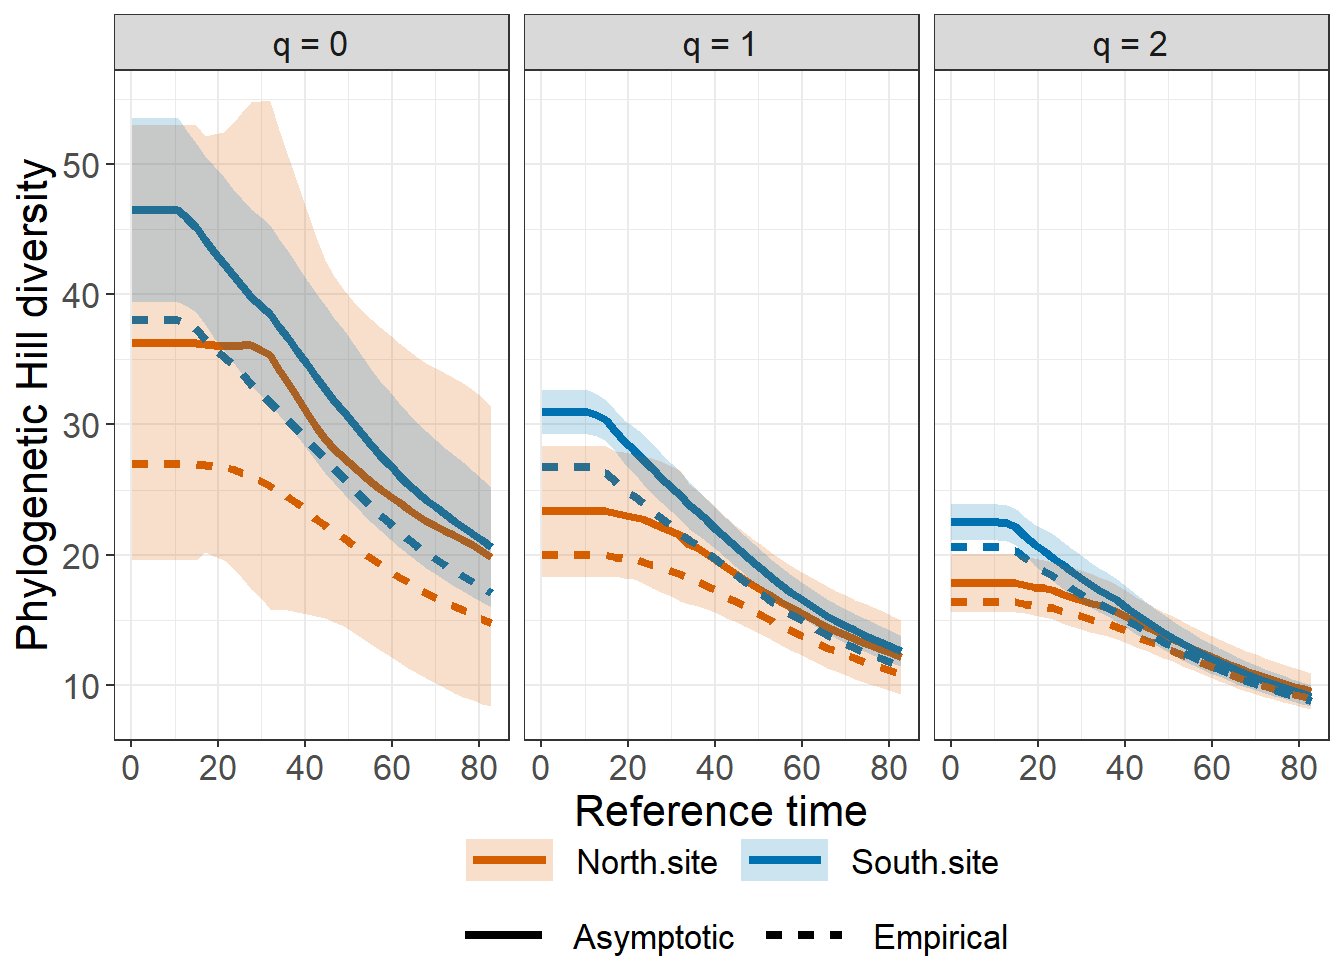
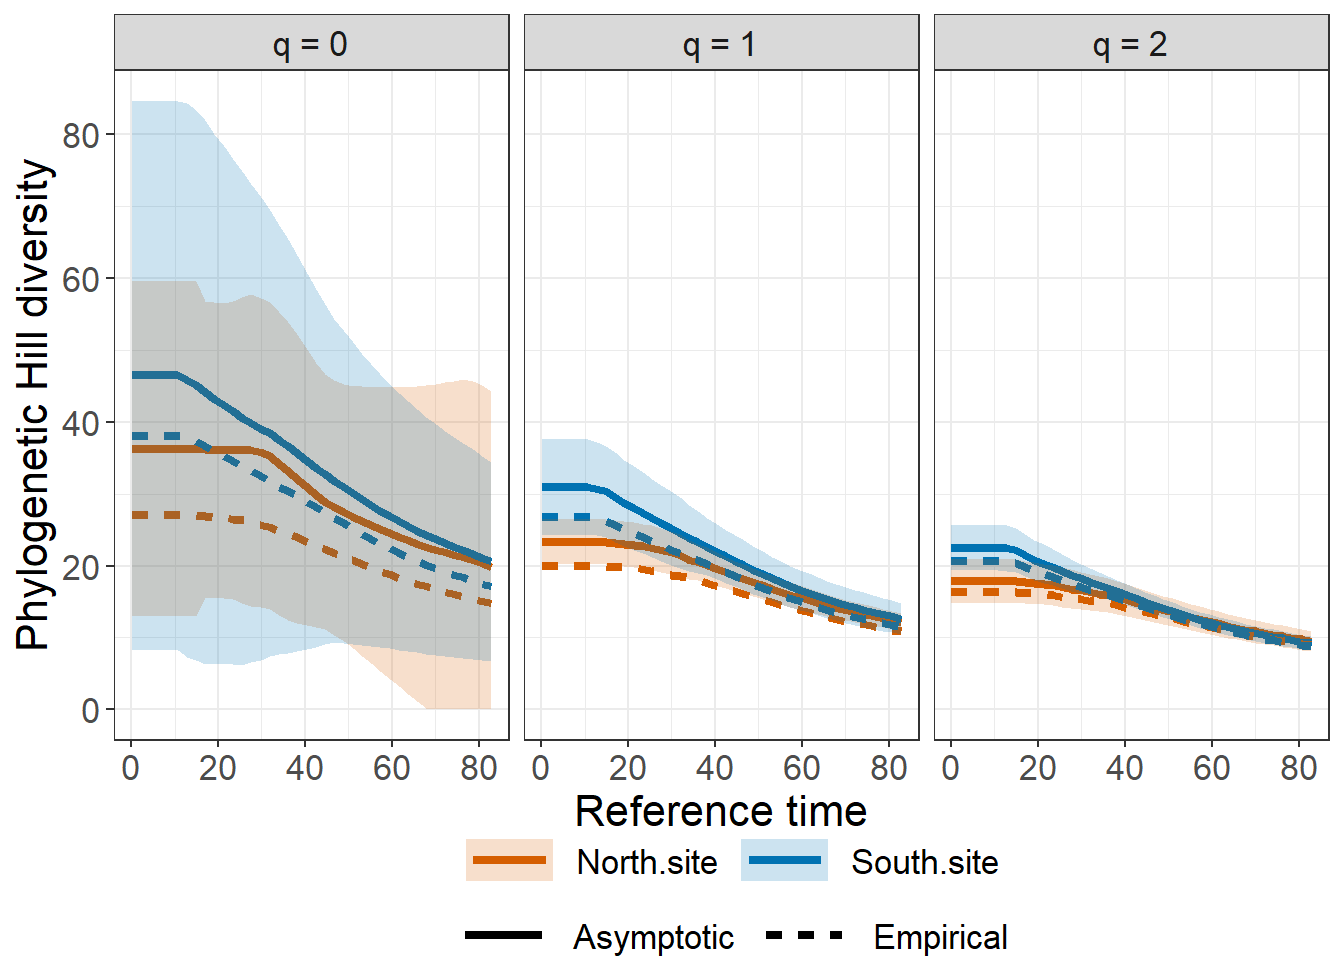
Update README.

diff --git a/README.md b/README.md
@@ -210,9 +210,8 @@ Enter 0 to skip the bootstrap procedures. Default is 50.
 conf
 </td>
 <td style="text-align: left;">
-a positive integer specifying the number of bootstrap replications when
-assessing sampling uncertainty and constructing confidence intervals.
-Enter 0 to skip the bootstrap procedures. Default is 50.
+a positive number \< 1 specifying the level of confidence interval.
+Default is 0.95.
 </td>
 </tr>
 <tr>
@@ -368,16 +367,16 @@ $size_based (LCL and UCL are obtained for fixed size.)
 # A tibble: 45 x 10
    Assemblage     m Method        Order.q    qD qD.LCL qD.UCL    SC SC.LCL SC.UCL
    <chr>      <dbl> <chr>           <dbl> <dbl>  <dbl>  <dbl> <dbl>  <dbl>  <dbl>
- 1 EM             1 Rarefaction         0  1      1.00   1    0.136  0.127  0.145
- 2 EM           196 Rarefaction         0 15.2   13.7   16.8  0.987  0.980  0.995
- 3 EM           373 Observed            0 17     14.5   19.5  0.992  0.984  1.00 
- 4 EM           550 Extrapolation       0 18.2   14.9   21.6  0.994  0.988  1    
- 5 EM           746 Extrapolation       0 19.2   15.1   23.3  0.996  0.991  1    
- 6 EM             1 Rarefaction         1  1      1      1    0.136  0.127  0.145
- 7 EM           196 Rarefaction         1  9.07   8.55   9.58 0.987  0.980  0.995
- 8 EM           373 Observed            1  9.27   8.71   9.83 0.992  0.984  1.00 
- 9 EM           550 Extrapolation       1  9.37   8.79   9.95 0.994  0.988  1    
-10 EM           746 Extrapolation       1  9.43   8.84  10.0  0.996  0.991  1    
+ 1 EM             1 Rarefaction         0  1      1.00   1    0.136  0.128  0.145
+ 2 EM           196 Rarefaction         0 15.2   13.7   16.7  0.987  0.980  0.994
+ 3 EM           373 Observed            0 17     14.7   19.3  0.992  0.988  0.996
+ 4 EM           550 Extrapolation       0 18.2   15.3   21.2  0.994  0.990  0.998
+ 5 EM           746 Extrapolation       0 19.2   15.6   22.8  0.996  0.993  0.999
+ 6 EM             1 Rarefaction         1  1      1      1    0.136  0.128  0.145
+ 7 EM           196 Rarefaction         1  9.07   8.62   9.51 0.987  0.980  0.994
+ 8 EM           373 Observed            1  9.27   8.80   9.75 0.992  0.988  0.996
+ 9 EM           550 Extrapolation       1  9.37   8.88   9.85 0.994  0.990  0.998
+10 EM           746 Extrapolation       1  9.43   8.93   9.93 0.996  0.993  0.999
 # ... with 35 more rows
 # i Use `print(n = ...)` to see more rows
 
@@ -388,32 +387,32 @@ $coverage_based (LCL and UCL are obtained for fixed coverage; interval length is
 # A tibble: 45 x 8
    Assemblage    SC     m Method        Order.q    qD qD.LCL qD.UCL
    <chr>      <dbl> <dbl> <chr>           <dbl> <dbl>  <dbl>  <dbl>
- 1 EM         0.136    1  Rarefaction         0  1     0.987   1.01
- 2 EM         0.987  196. Rarefaction         0 15.2  12.7    17.7 
- 3 EM         0.992  373  Observed            0 17    13.5    20.5 
- 4 EM         0.994  550. Extrapolation       0 18.2  14.0    22.5 
- 5 EM         0.996  746. Extrapolation       0 19.2  14.3    24.1 
- 6 EM         0.136    1  Rarefaction         1  1     0.987   1.01
- 7 EM         0.987  196. Rarefaction         1  9.07  8.39    9.74
- 8 EM         0.992  373  Observed            1  9.27  8.57    9.97
- 9 EM         0.994  550. Extrapolation       1  9.37  8.66   10.1 
-10 EM         0.996  746. Extrapolation       1  9.43  8.73   10.1 
+ 1 EM         0.136    1  Rarefaction         0  1     0.967   1.03
+ 2 EM         0.987  196. Rarefaction         0 15.2  12.1    18.3 
+ 3 EM         0.992  373  Observed            0 17    12.6    21.4 
+ 4 EM         0.994  550. Extrapolation       0 18.2  13.3    23.1 
+ 5 EM         0.996  746. Extrapolation       0 19.2  13.8    24.5 
+ 6 EM         0.136    1  Rarefaction         1  1     0.968   1.03
+ 7 EM         0.987  196. Rarefaction         1  9.07  8.48    9.66
+ 8 EM         0.992  373  Observed            1  9.27  8.70    9.84
+ 9 EM         0.994  550. Extrapolation       1  9.37  8.80    9.93
+10 EM         0.996  746. Extrapolation       1  9.43  8.87    9.99
 # ... with 35 more rows
 # i Use `print(n = ...)` to see more rows
 
 NOTE: The above output only shows five estimates for each assemblage; call iNEXT.object$iNextEst$coverage_based to view complete output.
 
 AsyEst: asymptotic diversity estimates along with related statistics.
-  Assemblage         Diversity  Observed Estimator      s.e.       LCL      UCL
-1         EM  Species richness 17.000000 21.487936 4.7252632 17.000000 30.74928
-2         EM Shannon diversity  9.272102  9.541765 0.5106684  8.540873 10.54266
-3         EM Simpson diversity  7.218106  7.340810 0.4571866  6.444741  8.23688
-4         MO  Species richness 39.000000 40.998658 3.2474309 39.000000 47.36351
-5         MO Shannon diversity 19.712107 19.987465 0.7107617 18.594398 21.38053
-6         MO Simpson diversity 13.979950 14.102888 0.6083023 12.910638 15.29514
-7         TR  Species richness 42.000000 45.996223 3.7077529 42.000000 53.26329
-8         TR Shannon diversity 23.941938 24.481173 0.7166216 23.076621 25.88573
-9         TR Simpson diversity 18.605455 18.920295 0.7269383 17.495522 20.34507
+  Assemblage         Diversity  Observed Estimator      s.e.       LCL       UCL
+1         EM  Species richness 17.000000 21.487936 7.8075998 17.000000 36.790550
+2         EM Shannon diversity  9.272102  9.541765 0.2735255  9.005665 10.077865
+3         EM Simpson diversity  7.218106  7.340810 0.3037283  6.745514  7.936107
+4         MO  Species richness 39.000000 40.998658 3.8025660 39.000000 48.451550
+5         MO Shannon diversity 19.712107 19.987465 0.4717668 19.062819 20.912111
+6         MO Simpson diversity 13.979950 14.102888 0.4343910 13.251498 14.954279
+7         TR  Species richness 42.000000 45.996223 3.9371403 42.000000 53.712876
+8         TR Shannon diversity 23.941938 24.481173 0.4528253 23.593652 25.368695
+9         TR Simpson diversity 18.605455 18.920295 0.4792300 17.981021 19.859568
 ```
 
 The second data frame of list $iNextEst (as shown below for
@@ -598,15 +597,15 @@ indicated in the method of the output.
 ``` r
 estimate3D(dunes$data, diversity = 'TD', q = c(0,1,2), datatype = "abundance", base = "coverage",level = 0.93)
   Assemblage   SC         m      Method Order.q        qD      s.e.    qD.LCL    qD.UCL
-1         EM 0.93  47.88966 Rarefaction       0 11.194508 0.5440690 10.128152 12.260863
-2         EM 0.93  47.88966 Rarefaction       1  8.004329 0.3287016  7.360086  8.648572
-3         EM 0.93  47.88966 Rarefaction       2  6.482469 0.2911946  5.911738  7.053200
-4         MO 0.93 107.56810 Rarefaction       0 24.830302 0.6556692 23.545214 26.115390
-5         MO 0.93 107.56810 Rarefaction       1 16.735683 0.4208898 15.910754 17.560611
-6         MO 0.93 107.56810 Rarefaction       2 12.571520 0.4062615 11.775263 13.367778
-7         TR 0.93 114.37603 Rarefaction       0 27.935556 0.6456804 26.670046 29.201067
-8         TR 0.93 114.37603 Rarefaction       1 20.360646 0.4479612 19.482658 21.238634
-9         TR 0.93 114.37603 Rarefaction       2 16.357398 0.4441066 15.486965 17.227831
+1         EM 0.93  47.88966 Rarefaction       0 11.194508 0.5723628 10.072697 12.316318
+2         EM 0.93  47.88966 Rarefaction       1  8.004329 0.3413100  7.335374  8.673284
+3         EM 0.93  47.88966 Rarefaction       2  6.482469 0.2846312  5.924602  7.040336
+4         MO 0.93 107.56810 Rarefaction       0 24.830302 0.8163906 23.230206 26.430398
+5         MO 0.93 107.56810 Rarefaction       1 16.735683 0.5061083 15.743729 17.727637
+6         MO 0.93 107.56810 Rarefaction       2 12.571520 0.4233112 11.741846 13.401195
+7         TR 0.93 114.37603 Rarefaction       0 27.935556 0.8959244 26.179577 29.691536
+8         TR 0.93 114.37603 Rarefaction       1 20.360646 0.5638913 19.255439 21.465853
+9         TR 0.93 114.37603 Rarefaction       2 16.357398 0.4804488 15.415736 17.299060
 ```
 
 ### EMPIRICAL AND ASYMPTOTIC DIVERSITY FUNCTION: AO3D
@@ -630,73 +629,73 @@ along with its confidence interval, for a specified q level from 0 to 2.
 out1 <- AO3D(dunes$data, diversity = 'TD', datatype = "abundance", method = c("Asymptotic", "Observed"),nboot = 5,conf = 0.95)
 
 out1
-   Order.q        qD      s.e.    qD.LCL    qD.UCL Assemblage     Method
-1      0.0 21.487936 2.9382599 15.729052 27.246819         EM Asymptotic
-2      0.2 16.936433 1.5264765 13.944594 19.928272         EM Asymptotic
-3      0.4 13.885407 0.7940835 12.329032 15.441782         EM Asymptotic
-4      0.6 11.862781 0.4699537 10.941689 12.783873         EM Asymptotic
-5      0.8 10.496859 0.3373749  9.835617 11.158102         EM Asymptotic
-6      1.0  9.541765 0.2756630  9.001476 10.082055         EM Asymptotic
-7      1.2  8.847719 0.2407288  8.375899  9.319539         EM Asymptotic
-8      1.4  8.325449 0.2196508  7.894941  8.755956         EM Asymptotic
-9      1.6  7.920890 0.2074746  7.514247  8.327533         EM Asymptotic
-10     1.8  7.600095 0.2011742  7.205801  7.994389         EM Asymptotic
-11     2.0  7.340810 0.1986141  6.951534  7.730087         EM Asymptotic
-12     0.0 40.998658 5.7841620 29.661908 52.335407         MO Asymptotic
-13     0.2 34.209437 2.7554947 28.808767 39.610107         MO Asymptotic
-14     0.4 29.060182 1.3936238 26.328729 31.791634         MO Asymptotic
-15     0.6 25.175831 0.8792284 23.452575 26.899087         MO Asymptotic
-16     0.8 22.235885 0.6806774 20.901782 23.569988         MO Asymptotic
-17     1.0 19.987465 0.5682018 18.873810 21.101120         MO Asymptotic
-18     1.2 18.241913 0.4851258 17.291084 19.192742         MO Asymptotic
-19     1.4 16.863382 0.4224947 16.035307 17.691456         MO Asymptotic
-20     1.6 15.755819 0.3781258 15.014706 16.496932         MO Asymptotic
-21     1.8 14.851614 0.3489941 14.167598 15.535630         MO Asymptotic
-22     2.0 14.102888 0.3310951 13.453954 14.751823         MO Asymptotic
-23     0.0 45.996223 7.3057997 31.677119 60.315327         TR Asymptotic
-24     0.2 38.731480 3.3500796 32.165444 45.297515         TR Asymptotic
-25     0.4 33.399637 1.6025708 30.258656 36.540618         TR Asymptotic
-26     0.6 29.505773 1.0217409 27.503198 31.508348         TR Asymptotic
-27     0.8 26.635682 0.8660361 24.938282 28.333082         TR Asymptotic
-28     1.0 24.481173 0.8032734 22.906786 26.055560         TR Asymptotic
-29     1.2 22.827199 0.7589538 21.339677 24.314721         TR Asymptotic
-30     1.4 21.527891 0.7222266 20.112353 22.943429         TR Asymptotic
-31     1.6 20.484834 0.6912197 19.130068 21.839599         TR Asymptotic
-32     1.8 19.631065 0.6648912 18.327902 20.934227         TR Asymptotic
-33     2.0 18.920295 0.6423051 17.661400 20.179189         TR Asymptotic
-34     0.0 17.000000 0.8366600 15.360176 18.639824         EM  Empirical
-35     0.2 14.471457 0.3651264 13.755822 15.187092         EM  Empirical
-36     0.4 12.567736 0.1635547 12.247174 12.888297         EM  Empirical
-37     0.6 11.145510 0.2255504 10.703439 11.587580         EM  Empirical
-38     0.8 10.079552 0.2959636  9.499474 10.659630         EM  Empirical
-39     1.0  9.272102 0.3313700  8.622629  9.921575         EM  Empirical
-40     1.2  8.651511 0.3441312  7.977026  9.325995         EM  Empirical
-41     1.4  8.166818 0.3451254  7.490385  8.843251         EM  Empirical
-42     1.6  7.782094 0.3408971  7.113948  8.450240         EM  Empirical
-43     1.8  7.471913 0.3349573  6.815409  8.128418         EM  Empirical
-44     2.0  7.218106 0.3290211  6.573237  7.862976         EM  Empirical
-45     0.0 39.000000 1.0000000 37.040036 40.959964         MO  Empirical
-46     0.2 32.970780 0.7689797 31.463607 34.477952         MO  Empirical
-47     0.4 28.269000 0.6673441 26.961029 29.576970         MO  Empirical
-48     0.6 24.647500 0.5841257 23.502634 25.792365         MO  Empirical
-49     0.8 21.864493 0.5109297 20.863089 22.865897         MO  Empirical
-50     1.0 19.712107 0.4567004 18.816991 20.607223         MO  Empirical
-51     1.2 18.026804 0.4238459 17.196081 18.857526         MO  Empirical
-52     1.4 16.686924 0.4082451 15.886779 17.487070         MO  Empirical
-53     1.6 15.604656 0.4037298 14.813360 16.395951         MO  Empirical
-54     1.8 14.717297 0.4051339 13.923250 15.511345         MO  Empirical
-55     2.0 13.979950 0.4091088 13.178112 14.781789         MO  Empirical
-56     0.0 42.000000 1.6733201 38.720353 45.279647         TR  Empirical
-57     0.2 36.253363 1.0737844 34.148784 38.357942         TR  Empirical
-58     0.4 31.844736 0.7535099 30.367883 33.321588         TR  Empirical
-59     0.6 28.487492 0.6230373 27.266361 29.708622         TR  Empirical
-60     0.8 25.922807 0.5788729 24.788237 27.057378         TR  Empirical
-61     1.0 23.941938 0.5567460 22.850736 25.033140         TR  Empirical
-62     1.2 22.387845 0.5345878 21.340072 23.435617         TR  Empirical
-63     1.4 21.146894 0.5088802 20.149507 22.144281         TR  Empirical
-64     1.6 20.138290 0.4811358 19.195281 21.081299         TR  Empirical
-65     1.8 19.304760 0.4533574 18.416196 20.193324         TR  Empirical
-66     2.0 18.605455 0.4269397 17.768668 19.442241         TR  Empirical
+   Order.q        qD       s.e.    qD.LCL    qD.UCL Assemblage     Method
+1      0.0 21.487936  6.2179769  9.300925 33.674946         EM Asymptotic
+2      0.2 16.936433  2.9506297 11.153305 22.719561         EM Asymptotic
+3      0.4 13.885407  1.2425274 11.450098 16.320716         EM Asymptotic
+4      0.6 11.862781  0.5783225 10.729290 12.996272         EM Asymptotic
+5      0.8 10.496859  0.4821520  9.551859 11.441860         EM Asymptotic
+6      1.0  9.541765  0.5042795  8.553395 10.530135         EM Asymptotic
+7      1.2  8.847719  0.5139625  7.840371  9.855067         EM Asymptotic
+8      1.4  8.325449  0.5099681  7.325930  9.324968         EM Asymptotic
+9      1.6  7.920890  0.5002279  6.940461  8.901319         EM Asymptotic
+10     1.8  7.600095  0.4890426  6.641589  8.558601         EM Asymptotic
+11     2.0  7.340810  0.4782234  6.403510  8.278111         EM Asymptotic
+12     0.0 40.998658  2.7481544 35.612374 46.384941         MO Asymptotic
+13     0.2 34.209437  0.9715199 32.305293 36.113581         MO Asymptotic
+14     0.4 29.060182  0.3577466 28.359011 29.761352         MO Asymptotic
+15     0.6 25.175831  0.4467931 24.300133 26.051530         MO Asymptotic
+16     0.8 22.235885  0.5318755 21.193429 23.278342         MO Asymptotic
+17     1.0 19.987465  0.5576188 18.894553 21.080378         MO Asymptotic
+18     1.2 18.241913  0.5565624 17.151071 19.332756         MO Asymptotic
+19     1.4 16.863382  0.5444817 15.796217 17.930546         MO Asymptotic
+20     1.6 15.755819  0.5275033 14.721931 16.789706         MO Asymptotic
+21     1.8 14.851614  0.5080952 13.855766 15.847463         MO Asymptotic
+22     2.0 14.102888  0.4874604 13.147484 15.058293         MO Asymptotic
+23     0.0 45.996223 17.2515133 12.183878 79.808568         TR Asymptotic
+24     0.2 38.731480  7.6521019 23.733636 53.729324         TR Asymptotic
+25     0.4 33.399637  3.0887934 27.345714 39.453561         TR Asymptotic
+26     0.6 29.505773  1.1925180 27.168481 31.843065         TR Asymptotic
+27     0.8 26.635682  0.4662209 25.721906 27.549458         TR Asymptotic
+28     1.0 24.481173  0.2105288 24.068544 24.893802         TR Asymptotic
+29     1.2 22.827199  0.1566725 22.520126 23.134271         TR Asymptotic
+30     1.4 21.527891  0.1836786 21.167888 21.887895         TR Asymptotic
+31     1.6 20.484834  0.2283208 20.037333 20.932334         TR Asymptotic
+32     1.8 19.631065  0.2724989 19.096977 20.165153         TR Asymptotic
+33     2.0 18.920295  0.3118545 18.309071 19.531518         TR Asymptotic
+34     0.0 17.000000  1.5811388 13.901025 20.098975         EM  Empirical
+35     0.2 14.471457  1.0255475 12.461421 16.481493         EM  Empirical
+36     0.4 12.567736  0.6403398 11.312693 13.822779         EM  Empirical
+37     0.6 11.145510  0.3930937 10.375060 11.915959         EM  Empirical
+38     0.8 10.079552  0.2515846  9.586456 10.572649         EM  Empirical
+39     1.0  9.272102  0.1871846  8.905227  9.638977         EM  Empirical
+40     1.2  8.651511  0.1684919  8.321272  8.981749         EM  Empirical
+41     1.4  8.166818  0.1672663  7.838982  8.494654         EM  Empirical
+42     1.6  7.782094  0.1693320  7.450209  8.113979         EM  Empirical
+43     1.8  7.471913  0.1704998  7.137740  7.806087         EM  Empirical
+44     2.0  7.218106  0.1702588  6.884405  7.551808         EM  Empirical
+45     0.0 39.000000  1.0000000 37.040036 40.959964         MO  Empirical
+46     0.2 32.970780  0.6064201 31.782218 34.159341         MO  Empirical
+47     0.4 28.269000  0.5268270 27.236438 29.301562         MO  Empirical
+48     0.6 24.647500  0.5252337 23.618060 25.676939         MO  Empirical
+49     0.8 21.864493  0.5266566 20.832265 22.896721         MO  Empirical
+50     1.0 19.712107  0.5275484 18.678131 20.746083         MO  Empirical
+51     1.2 18.026804  0.5304494 16.987142 19.066465         MO  Empirical
+52     1.4 16.686924  0.5348825 15.638574 17.735275         MO  Empirical
+53     1.6 15.604656  0.5392157 14.547812 16.661499         MO  Empirical
+54     1.8 14.717297  0.5421461 13.654711 15.779884         MO  Empirical
+55     2.0 13.979950  0.5430364 12.915619 15.044282         MO  Empirical
+56     0.0 42.000000  2.4899799 37.119729 46.880271         TR  Empirical
+57     0.2 36.253363  1.8114448 32.702996 39.803730         TR  Empirical
+58     0.4 31.844736  1.4270242 29.047820 34.641652         TR  Empirical
+59     0.6 28.487492  1.2214653 26.093464 30.881520         TR  Empirical
+60     0.8 25.922807  1.1066850 23.753745 28.091870         TR  Empirical
+61     1.0 23.941938  1.0343156 21.914717 25.969159         TR  Empirical
+62     1.2 22.387845  0.9827904 20.461611 24.314078         TR  Empirical
+63     1.4 21.146894  0.9430966 19.298459 22.995330         TR  Empirical
+64     1.6 20.138290  0.9111937 18.352383 21.924197         TR  Empirical
+65     1.8 19.304760  0.8849557 17.570279 21.039241         TR  Empirical
+66     2.0 18.605455  0.8630694 16.913870 20.297040         TR  Empirical
 ```
 
 ### GRAPHIC DISPLAYS FUNCTION: ggAO3D()
